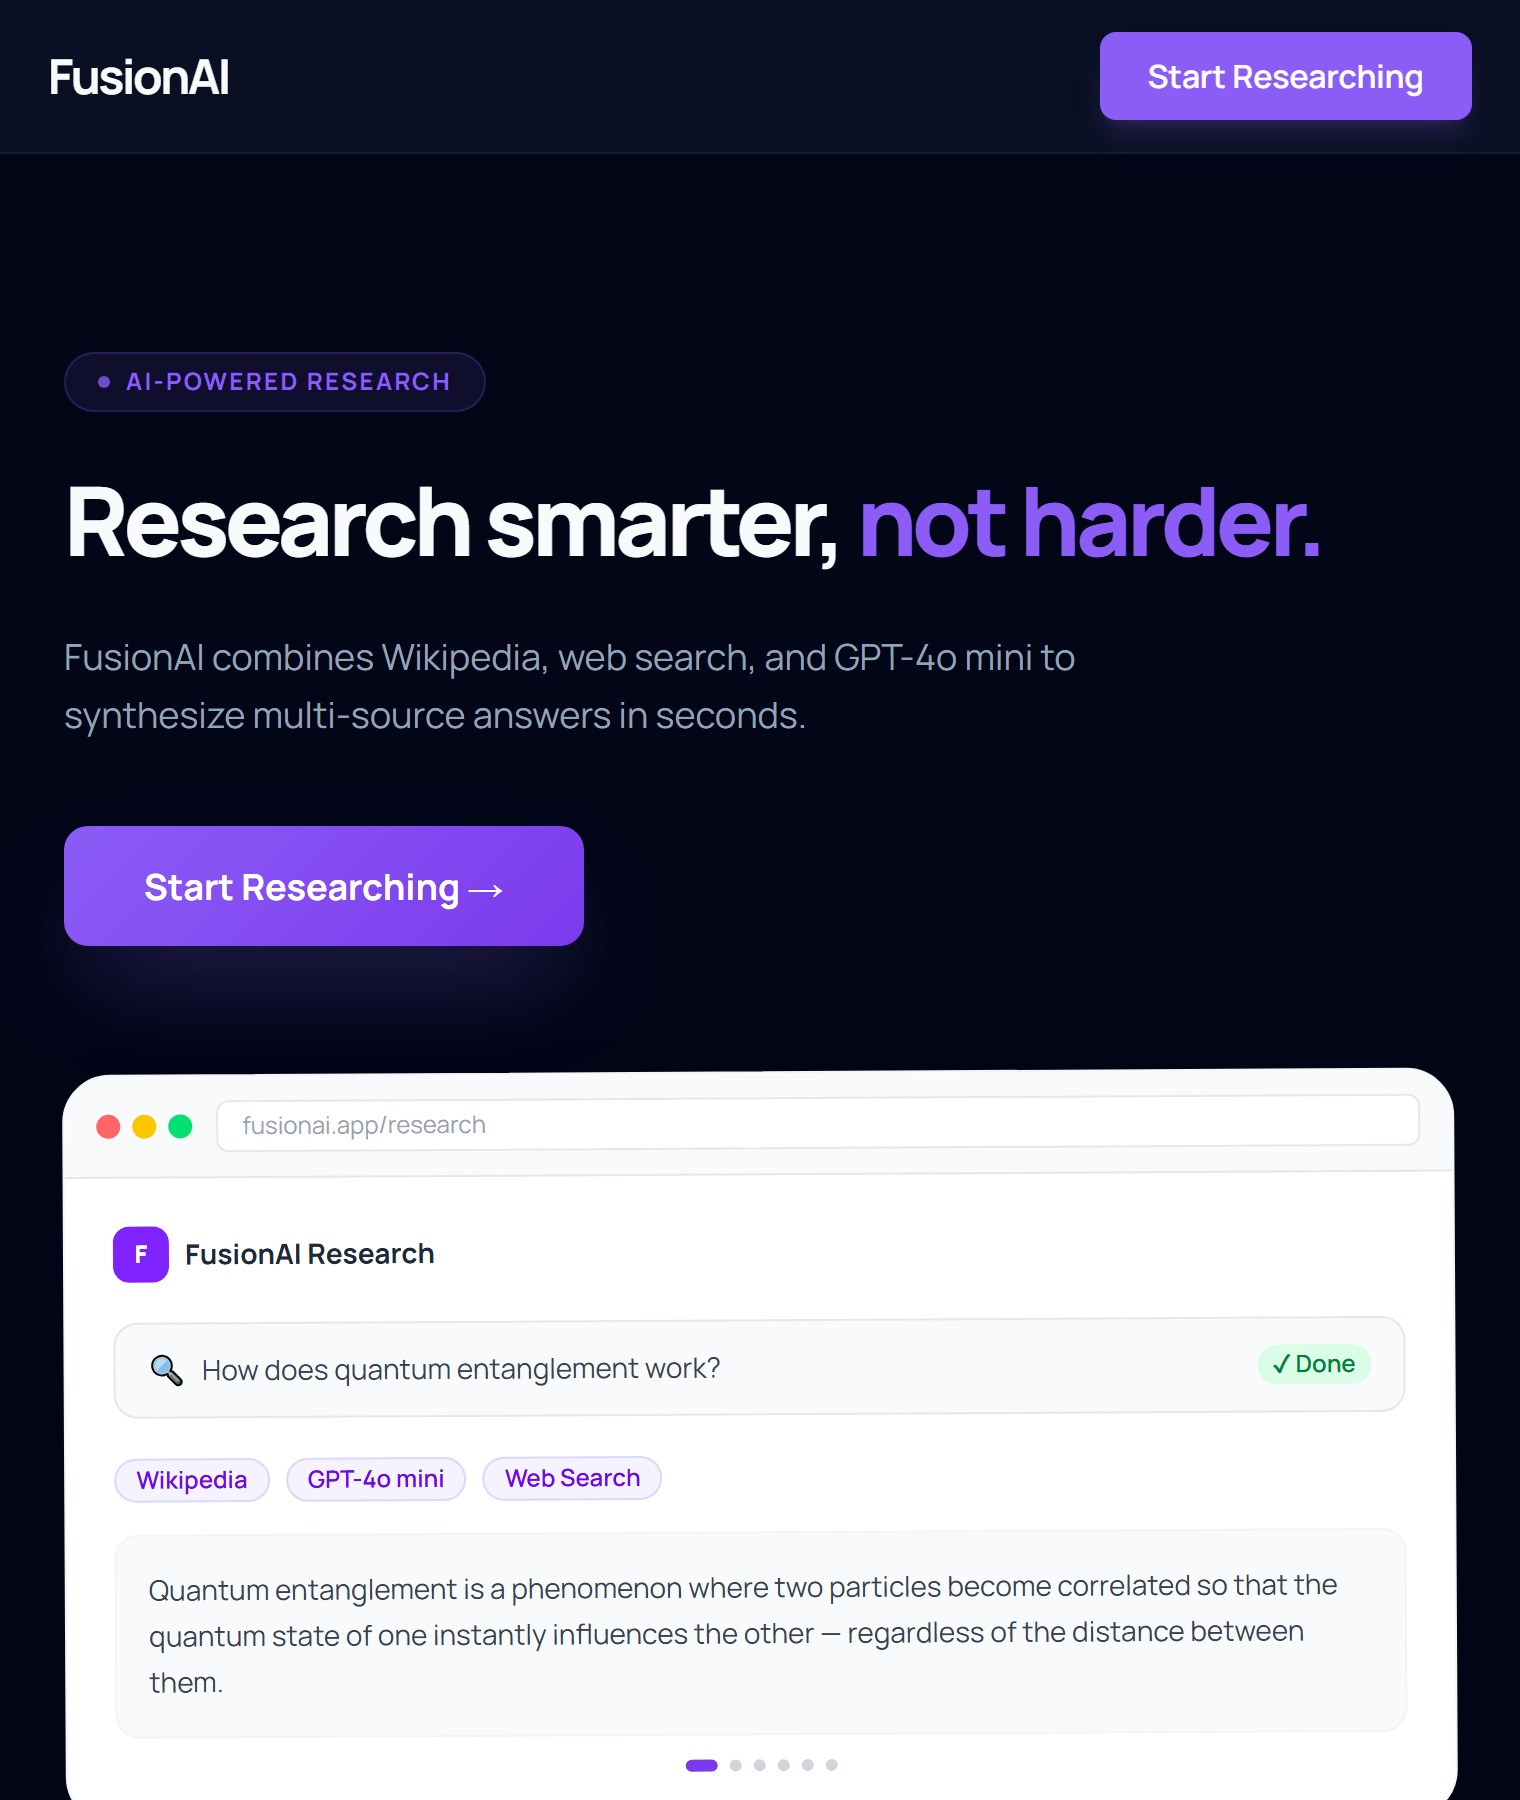
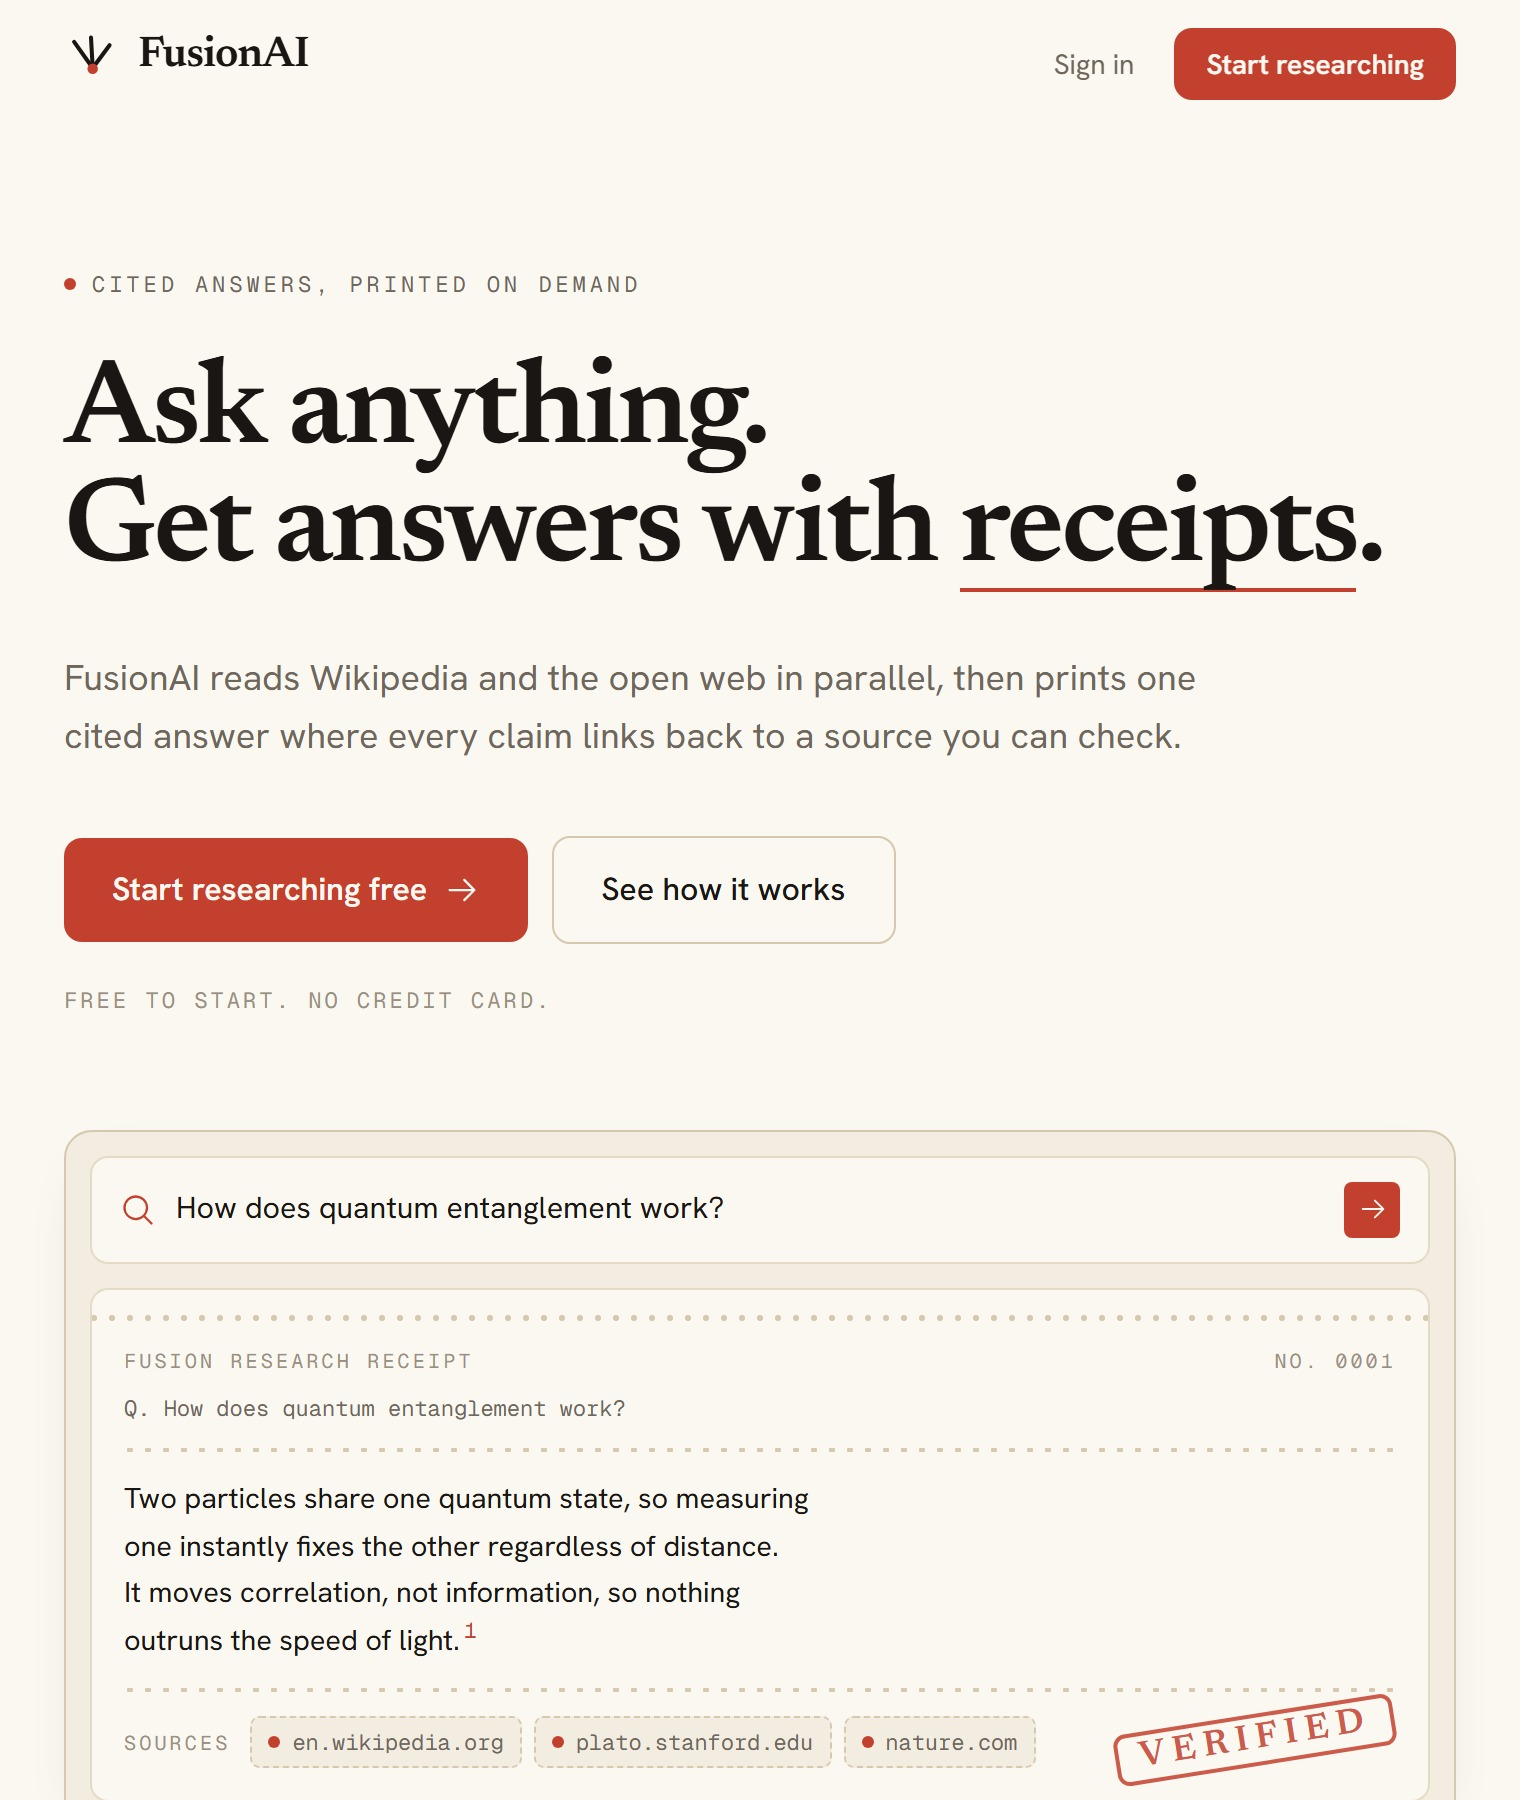
Update Crypto Pilot and FusionAI screenshots and Crypto Pilot link
What: Re-shot the Crypto Pilot and FusionAI landing pages (both shipped new
UIs) and pointed the Crypto Pilot project at its new URL.

Why: Both projects were redesigned since the last capture. Crypto Pilot also
moved to a new host (Railway), so the old pocommunity.com link was dead.

How:
- public/shots/crypto-pilot.jpg, fusionai.jpg: recaptured at the standard
  760px tablet width (see scripts/shots.mjs). Crypto Pilot now has a live URL,
  so it is back in the automated capture list.
- app/page.tsx: updated the Crypto Pilot href to
  https://cryptopilot.up.railway.app/ and added a "22% center" object-position
  for it (left-aligned hero), matching how FusionAI/Prism are framed. Verified
  both stages frame the headline cleanly with the product UI below.

diff --git a/app/page.tsx b/app/page.tsx
@@ -56,7 +56,7 @@ const projects = [
     description: "A cryptocurrency trading platform with live prices, market and limit orders, portfolio tooling, and AI powered support.",
     result: "Live prices, order types, portfolio tracking, and AI support live inside one coherent trading flow.",
     tech: ["WebSockets", "Trading Engine", "AI Assistant"],
-    href: "https://pocommunity.com/crypto-pilot/",
+    href: "https://cryptopilot.up.railway.app/",
     status: "Live",
     visual: "market",
   },
@@ -190,6 +190,7 @@ const shotPosition: Record<string, string> = {
   hire: "center",
   social: "center",
   path: "center",
+  market: "22% center",
   research: "28% center",
   prism: "18% center",
 };
